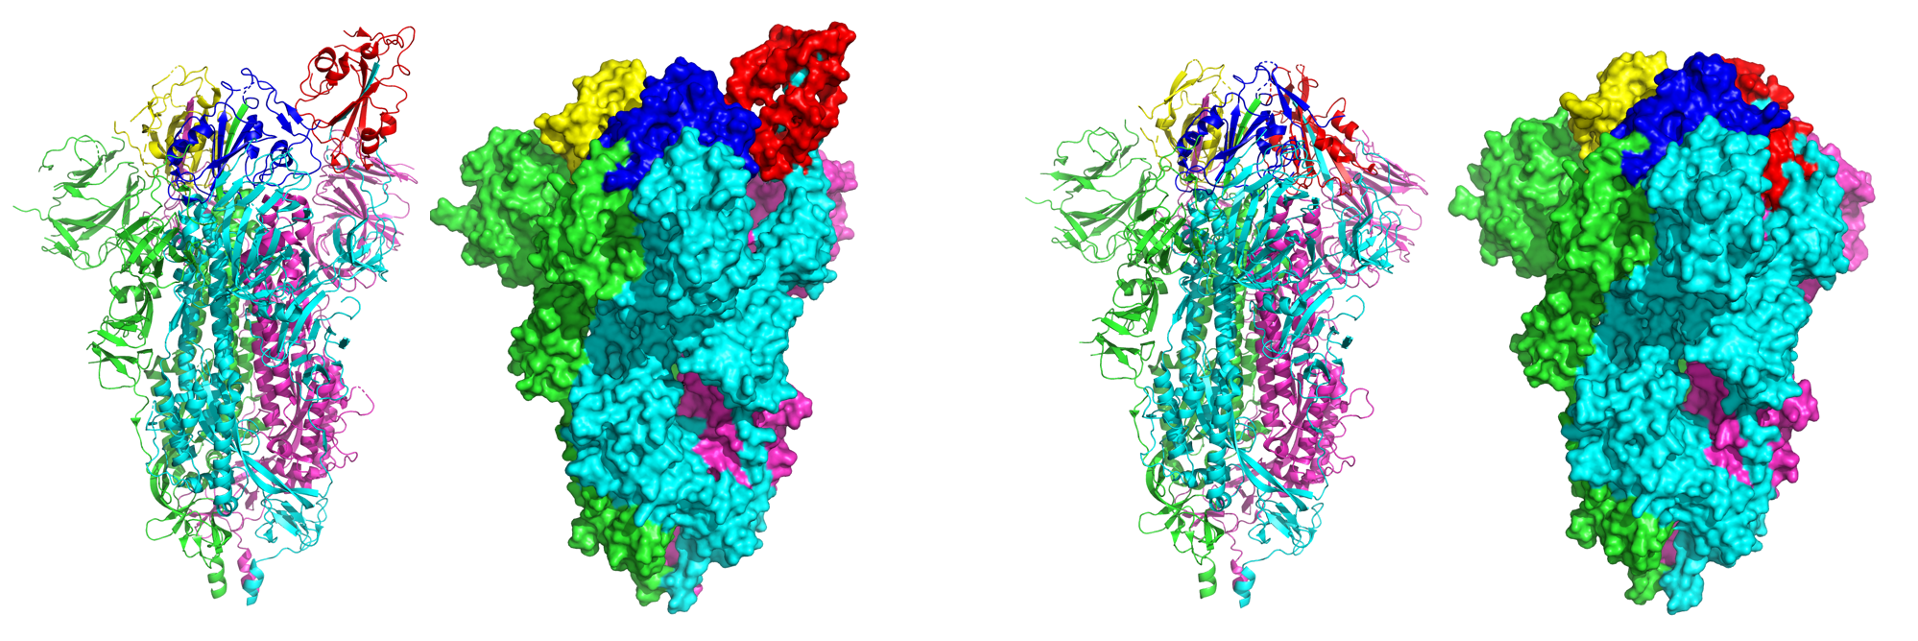
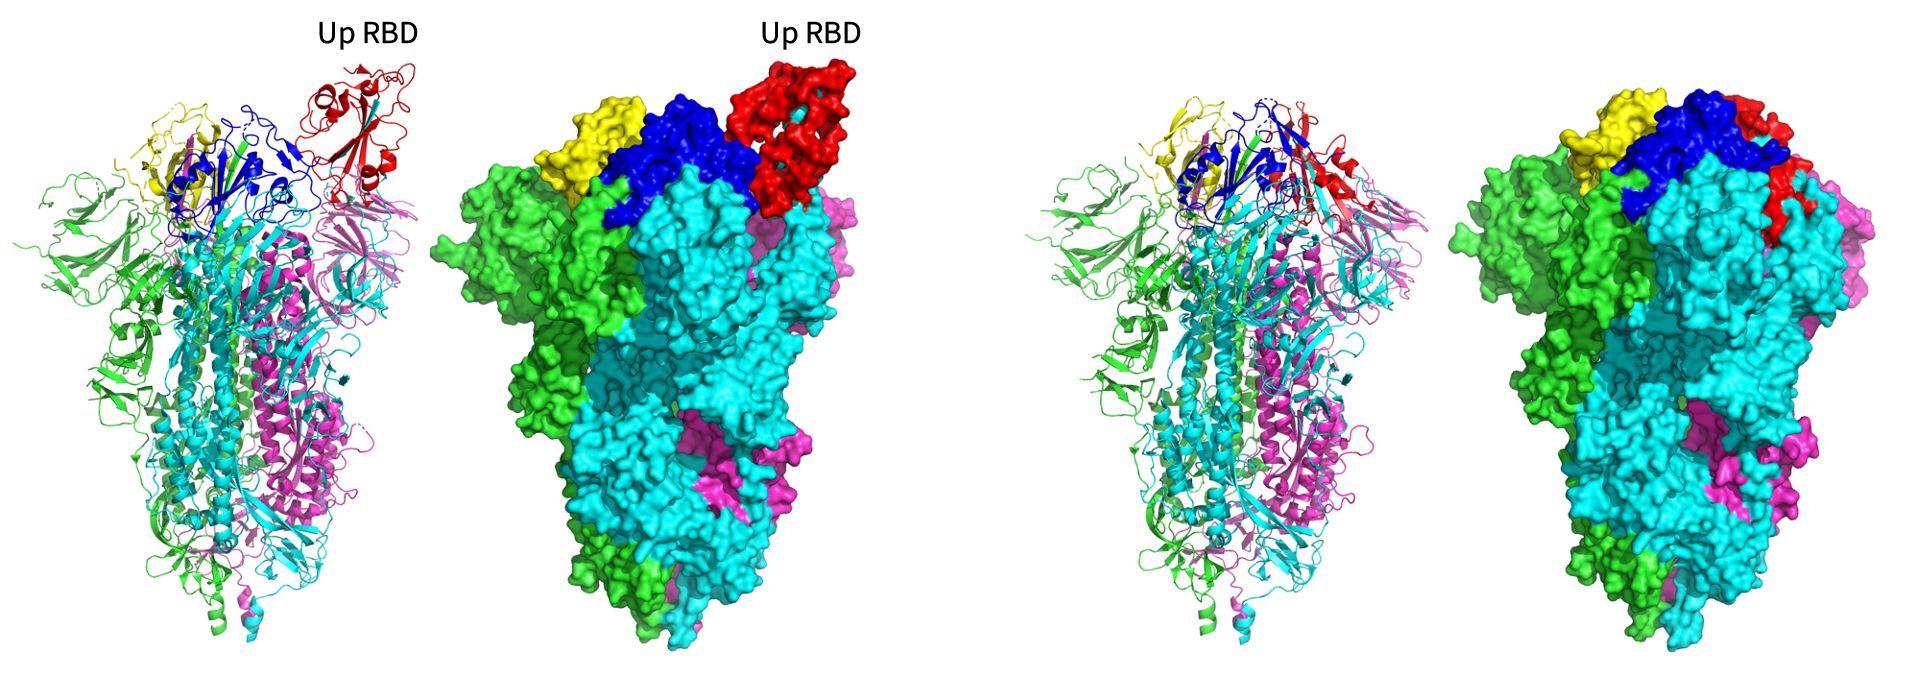
Update according to feedback

diff --git a/resources/spike-structures.md b/resources/spike-structures.md
@@ -1,8 +1,8 @@
 <section id="fig1">
 
-![Trimeric Spike Side View](spike-structures/fig1.png#!width=35rem)
+![SARS-CoV-2 Trimeric Spike (side view and top view)](spike-structures/fig1.png#!width=35rem)
 
-**[Figure 1](#fig1). SARS-CoV-2 Trimeric Spike (side view and top view)**. Each color represents one chain in the trimer. The RBD in the blue and magenta chains is in the down configuration while the RBD in the green chain is in the up configuration. (PDB: [6VXX])
+**[Figure 1](#fig1). SARS-CoV-2 Trimeric Spike (side view and top view)**. Each color represents one chain in the trimer. (PDB: [6VXX])
 
 [6VXX]: http://www.rcsb.org/structure/6VXX
 
@@ -12,9 +12,9 @@
 
 <section id="fig2">
 
-![Up/Down Configurations](spike-structures/fig2.png#!width=70rem)
+![Trimeric spike structures illustrating receptor binding domain (RBD) up (open; ACE2 accessible) and down (closed) configurations](spike-structures/fig2.png#!width=70rem)
 
-**[Figure 2](#fig2). Trimeric spike structures illustrating RBD up and down configurations**. The structures on the left capture one of three chains having RBD in an up configuration (red) whereas the structures on the right capture show all three chains having RBD in the down configuration. In both sets of structures, the three RBDs are colored red, blue, and yellow. (PDB: [6VXX] \[left two\], [6VYB] \[right two\])
+**[Figure 2](#fig2). Trimeric spike structures illustrating receptor binding domain (RBD) up (open; ACE2 accessible) and down (closed) configurations**. The structures on the left capture one of three chains having RBD in an up configuration (red) whereas the structures on the right capture show all three chains having RBD in the down configuration. In both sets of structures, the three RBDs are colored red, blue, and yellow whereas the individual spike protomers are in cyan, green, and magenta. (PDB: [6VXX] \[left two\], [6VYB] \[right two\])
 
 [6VYB]: http://www.rcsb.org/structure/6VYB
 
@@ -24,9 +24,9 @@
 
 <section id="fig3">
 
-![ACE-2 With Trimer Side View](spike-structures/fig3.png#!width=35rem)
+![Spike RBD bound to ACE-2](spike-structures/fig3.png#!width=35rem)
 
-**[Figure 3](#fig3). Spike RBD bound to ACE-2**. A structure of the spike RBD bound to the human ACE2 protein (PDB 6MOJ) superimposed onto the spike trimer (PDB [6VSB]).
+**[Figure 3](#fig3). Spike RBD bound to ACE-2**. One of the three spike receptor binding domains (RBD) bound to the human ACE2 protein. A structure of the RBD bound to ACE2 (PDB 6M0J) superimposed onto the spike trimer. (PDB [6VSB])
 
 </section>
 
@@ -34,9 +34,9 @@
 
 <section id="fig4">
 
-![S1 vs. S2 Trimer](spike-structures/fig4.png#!width=20rem)
+![Spike S1 and S2 subunits](spike-structures/fig4.png#!width=20rem)
 
-**[Figure 4](#fig4). Spike S1 and S2 subunits**. The spike protein processed by host proteases to generate two functional subunits, designated S1 and S2. S1 (shown in blue), which forms the apex of the trimer, is responsible for attachment to the ACE2 receptor. S2 (shown in pink) is responsible for fusion to the cell membrane. (PDB: [6VSB])
+**[Figure 4](#fig4). Spike S1 and S2 subunits**. The spike protein is processed by host proteases to generate two functional subunits, designated S1 (shown in blue) and S2 (shown in pink). S1, which forms the apex of the trimer, is responsible for attachment to the ACE2 receptor. S2 is responsible for fusion to the cell membrane. (PDB: [6VSB])
 
 </section>
 
@@ -44,9 +44,9 @@
 
 <section id="fig5">
 
-![S1 Specifics Trimer With RBM Side View](spike-structures/fig5.png#!width=70rem)
+![S1 domains](spike-structures/fig5.png#!width=70rem)
 
-**[Figure 5](#fig5). S1 domains**. The four S1 domains – N terminal domain (NTD; aka S1A; cyan), receptor binding domain (RBD; aka S1B; green),  SD1 (aka S1C; red), SD2 (aka S1D; purple) -- of one S1 chain are shown within the context of the spike trimer. The RBD contains a subdomain at its apex referred to as the receptor binding motif (RBM). The RBM shown in yellow contains the residues that bind to cellular ACE2 receptors. (PDB: [6VSB])
+**[Figure 5](#fig5). S1 domains**. The four S1 domains – N terminal domain (NTD; aka S1A; cyan), receptor binding domain (RBD; aka S1B; green), SD1 (aka S1C; red), SD2 (aka S1D; purple) -- of one S1 chain are shown within the context of the spike trimer. The RBD contains a subdomain at its apex referred to as the receptor binding motif (RBM). The RBM shown in yellow contains the residues that bind to ACE2. (PDB: [6VSB])
 
 </section>
 
@@ -54,9 +54,9 @@
 
 <section id="fig6">
 
-![Antibody Core Binding Sites](spike-structures/fig6.png#!width=70rem)
+![RBD core mAb epitopes](spike-structures/fig6.png#!width=60rem)
 
-**[Figure 6](#fig6). RBD core antibody sites**. CR3022 and S309 are non-ACE2 competing antibodies that bind nonoverlapping RBD core epitopes. EY6A is a non-ACE2-competing antibody that overlaps with CR3022 (PDB: [6M0J]). The bottom row shows the RBD rotated 180 degrees.
+**[Figure 6](#fig6). RBD core mAb epitopes**. CR3022 and S309 are non-ACE2 competing monoclonal antibodies (mAb) that bind non-overlapping receptor binding domain (RBD) core epitopes. The core is defined as the part of the RBD that does not contain the receptor binding motif (RBM). EY6A is a non-ACE2-competing mAb that overlaps with CR3022 (PDB: [6M0J]). The bottom row shows the RBD rotated 180 degrees. The ACE2 binding residues are shown in green.
 
 [6M0J]: http://www.rcsb.org/structure/6M0J
 
@@ -66,9 +66,9 @@
 
 <section id="fig7">
 
-![Antibody RBM Binding Sites Group 1](spike-structures/fig7.png#!width=80rem)
+![RBD RBM antibody sites group 1](spike-structures/fig7.png#!width=90rem)
 
-**[Figure 7](#fig7). RBD RBM antibody sites**. P2-2F6, BD23, and 2-4 are ACE2 competing mAbs that bind to overlapping residues. H11-H4 and H11-D4 are nanobodies that bind to the same region. Nearly all of the residues within these antibodies’ epitopes are between positions 449, 484, 490, and 492-494. (PDB: [6M0J])
+**[Figure 7](#fig7). RBD RBM antibody sites**. B38, CB6, CC12.1, CC12.3, CV30, and C105 are ACE2 competing monoclonal antibodies (mAbs) that bind to a high proportion of ACE2-binding residues. Each mAb is encoded by the same variable heavy chain gene IGHV3-53. The bottom row shows the RBD rotated 180 degrees. The ACE2 binding residues are shown in green.
 
 </section>
 
@@ -76,28 +76,19 @@
 
 <section id="fig8">
 
-![Antibody RBM Binding Sites Group 2](spike-structures/fig8.png#!width=90rem)
+![RBD RBM antibody sites group 2](spike-structures/fig8.png#!width=80rem)
 
-**[Figure 8](#fig8). RBD RBM antibody sites**. B38, CB6, CC12.1, CC12.3, CV30, and C105 are ACE2 competing antibodies that bind to RBD RBM epitopes. These six antibodies mainly overlap around residues 403, 405, 417, 420, 455-459, 473-476, 486-487, 501, and 505. They are all encoded by the same variable heavy chain gene VH53. (PDB: [6M0J])
+**[Figure 8](#fig8). RBD RBM antibody sites**. P2-2F6, BD23, and 2-4 are ACE2 competing monoclonal antibodies (mAbs) that bind to overlapping residues. H11-H4 and H11-D4 are nanobodies that bind to the same region. These mAbs generally bind a lower proportion of ACE2-binding residues (compared with those in Figure 7) and are not encoded by IGHV3-53. The bottom row shows the RBD rotated 180 degrees. The ACE2 binding residues are shown in green.
 
 </section>
 
 ----
+
 
 <section id="fig9">
 
-![Regeneron Antibody Binding Sites](spike-structures/fig9.png#!width=35rem)
+![Regeneron ACE2-competing mAbs](spike-structures/fig9.png#!width=35rem)
 
-**[Figure 9](#fig9). Regeneron Antibodies Binding Sites**. REGN19087 is an ACE-2 competing antibody that binds to the RBM but does not overlap with REGN 19033. REGN19033 is an ACE-2 competing antibody that binds to the RBM but does not overlap with REGN 19087. (PDB: [6M0J])
-
-</section>
-
-----
-
-<section id="fig10">
-
-![Antibody Binding Sites and Positions](spike-structures/fig10.png#!width=70rem)
-
-**[Figure 10](#fig10). RBD antibody site types**. CR3022, S309, REGN19083, and REGN19087 represent the four main areas of antibody binding sites. CR3022 and S309 bind to RBD core epitopes and do not overlap. REGN19083 and REGN19087 bind to RBD RBM epitopes and do not overlap. (PDB: [6M0J])
+**[Figure 9](#fig9). Regeneron ACE2-competing mAbs**. REGN19033 and REGN10987 are ACE2-competing monoclonal antibodies (mAbs) that bind to non-overlapping epitopes.
 
 </section>
